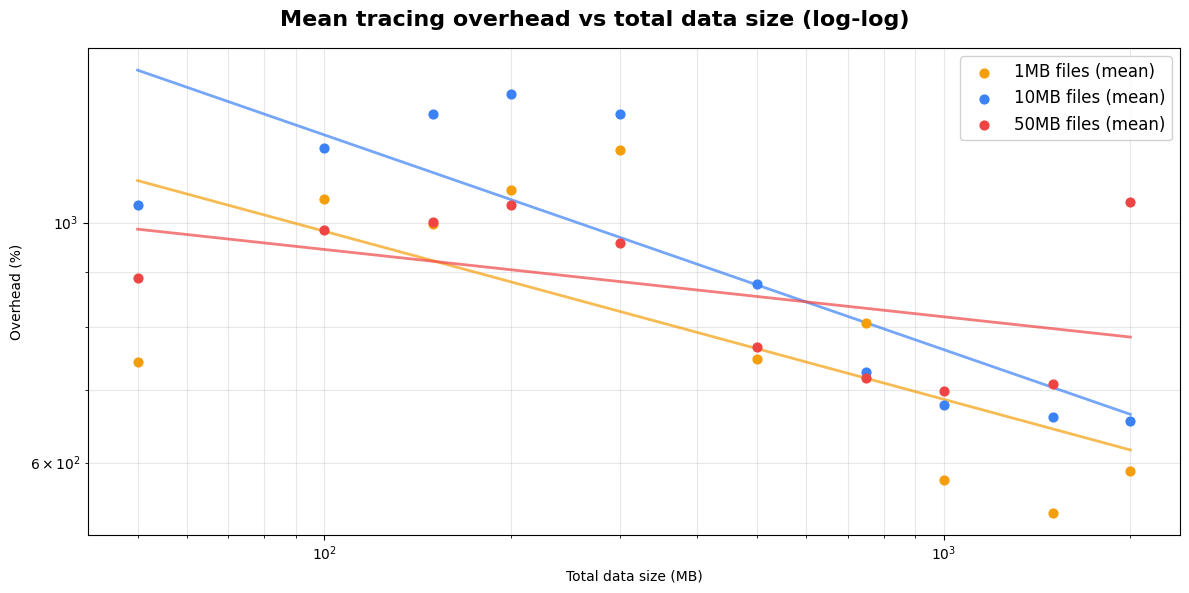
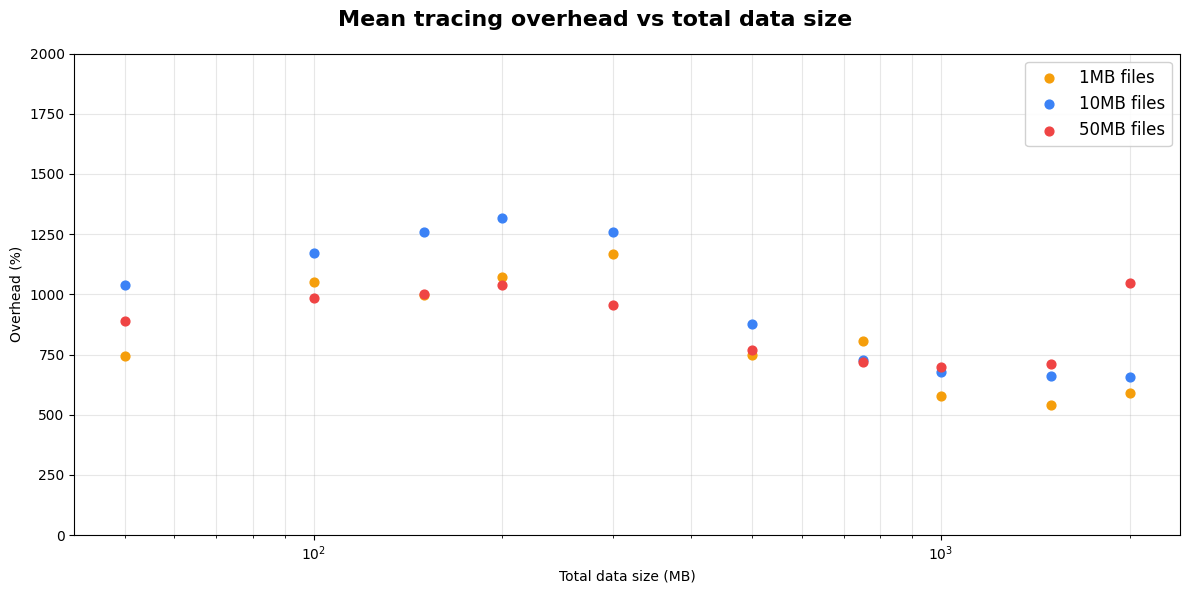
Changed the things metioned in comments and eventually blew up the README

diff --git a/tools/polytrace/test/benchmarks/plot_io_scaling_filesize.py b/tools/polytrace/test/benchmarks/plot_io_scaling_filesize.py
@@ -90,9 +90,9 @@ def main():
         std_ovh = float(np.std(arr, ddof=1)) if arr.size > 1 else 0.0
         by_file_size[file_size_mb].append((total_mb, mean_ovh, std_ovh, int(arr.size)))
     
-    # Create log-log plot
+    # Create plot with log x-axis and linear y-axis
     fig, ax = plt.subplots(figsize=(12, 6))
-    fig.suptitle('Mean tracing overhead vs total data size (log-log)', fontsize=16, fontweight='bold')
+    fig.suptitle('Mean tracing overhead vs total data size', fontsize=16, fontweight='bold')
     
     colors = {1: COLOR_SMALL, 10: COLOR_MEDIUM, 50: COLOR_LARGE}
     
@@ -109,22 +109,14 @@ def main():
             means,
             color=color,
             s=40,
-            label=f'{file_size_mb}MB files (mean)',
+            label=f'{file_size_mb}MB files',
             zorder=3,
         )
-
-    
-        if len(total_mbs) >= 2:
-            m, b = _fit_loglog(total_mbs, means)
-            x_line = np.linspace(total_mbs.min(), total_mbs.max(), 200)
-            y_line = 10**(m * np.log10(x_line) + b)
-            ax.plot(x_line, y_line, color=color, linewidth=2, alpha=0.7)
     
     ax.set_xscale('log')
-    ax.set_yscale('log')
     ax.set_xlabel('Total data size (MB)')
     ax.set_ylabel('Overhead (%)')
-    # ax.set_ylim(2e2, 3e3)
+    ax.set_ylim(0, 2000)
     ax.grid(True, which='both', alpha=0.3)
     ax.legend(loc='best', framealpha=0.9, fontsize=12)
     plt.tight_layout()

diff --git a/tools/polytrace/README.md b/tools/polytrace/README.md
@@ -3,24 +3,25 @@
 
 CLI Tool for Tracing File Accesses via strace. Commands are assumed executed from the root of this README.md.
 
-## Important
-`polytrace` relies on `strace` which does not run natively on Windows and macOS devices. For development purposes, you can use a Docker container defined by the provided `Dockerfile`.
+## 1. Important
+PLEASE NOTE: For systems running Linux or Windows Subsystem for Linux (WSL), the following steps, steps 2.a and 2.b maybe skipped.
+`polytrace` relies on `strace`, that is built-in with linux but does not run natively on Windows and macOS devices. For development purposes, you can use a Docker container defined by the provided `Dockerfile`. 
 The performance impact of using containers has not yet been measured or reported.
 
-### To Build the Container
+### 2.a To Build the Container
 ```sh
 docker build -t polytrace-dev-env .
 docker run --name polytrace-dev-env -it polytrace-dev-env
 ```
 
-### To Run the Container
+### 2.b To Run the Container
 ```sh
 docker start polytrace-dev-env
 docker exec -it polytrace-dev-env bash
 ```
 This gives the user command-line (shell) access to build, test and use the `polytrace` as described below. Default working directory is set to `/PolySim/tools/polytrace`.
 
-## Overview
+## 3. Overview
 
 This tool uses make to configure, build, and run tests. We use clang-format for code formatting and clang-tidy for linting.
 
@@ -62,7 +63,7 @@ sudo dnf install -y gcc-c++ make cmake openssl-devel strace clang-tools-extra
 - `fatal error: openssl/types.h: No such file or directory` → Install `libssl-dev` (Debian/Ubuntu) or `openssl-devel` (Fedora/RHEL).
 - `No CMAKE_CXX_COMPILER could be found` → Install `build-essential` (Debian/Ubuntu) or `gcc-c++` (Fedora/RHEL).
 
-## Usage
+## 4. Usage
 
 To trace a program, use the `trace` binary followed by the command you want to trace. For example:
 
